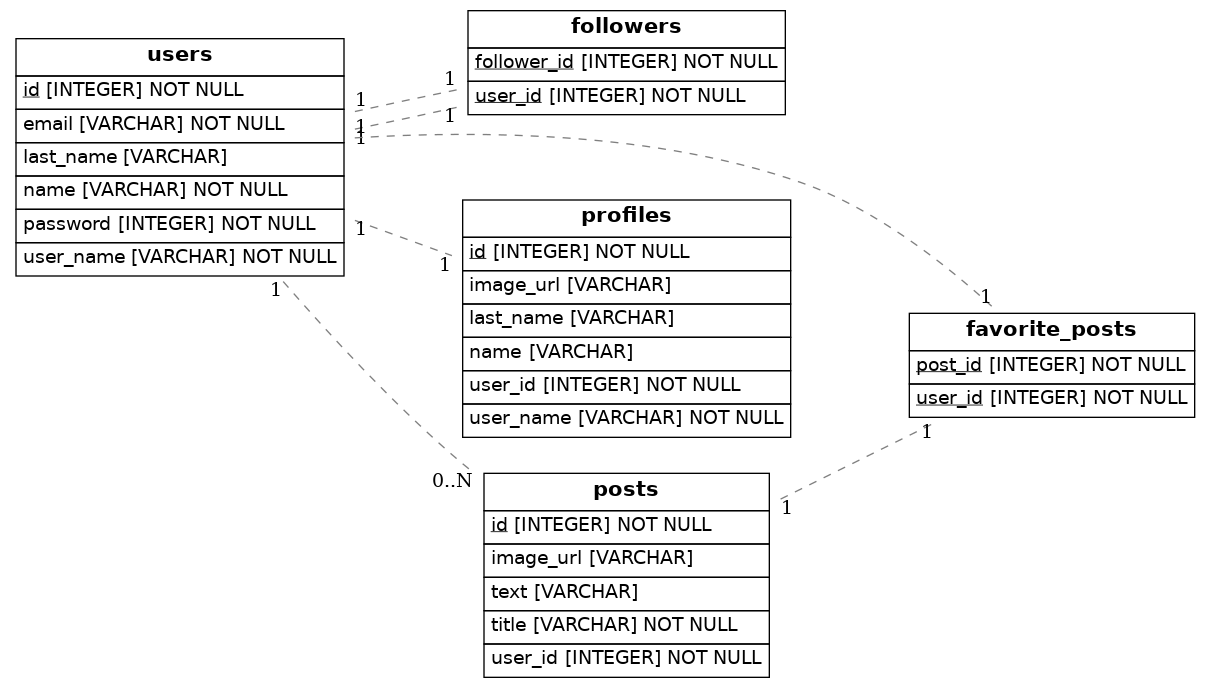
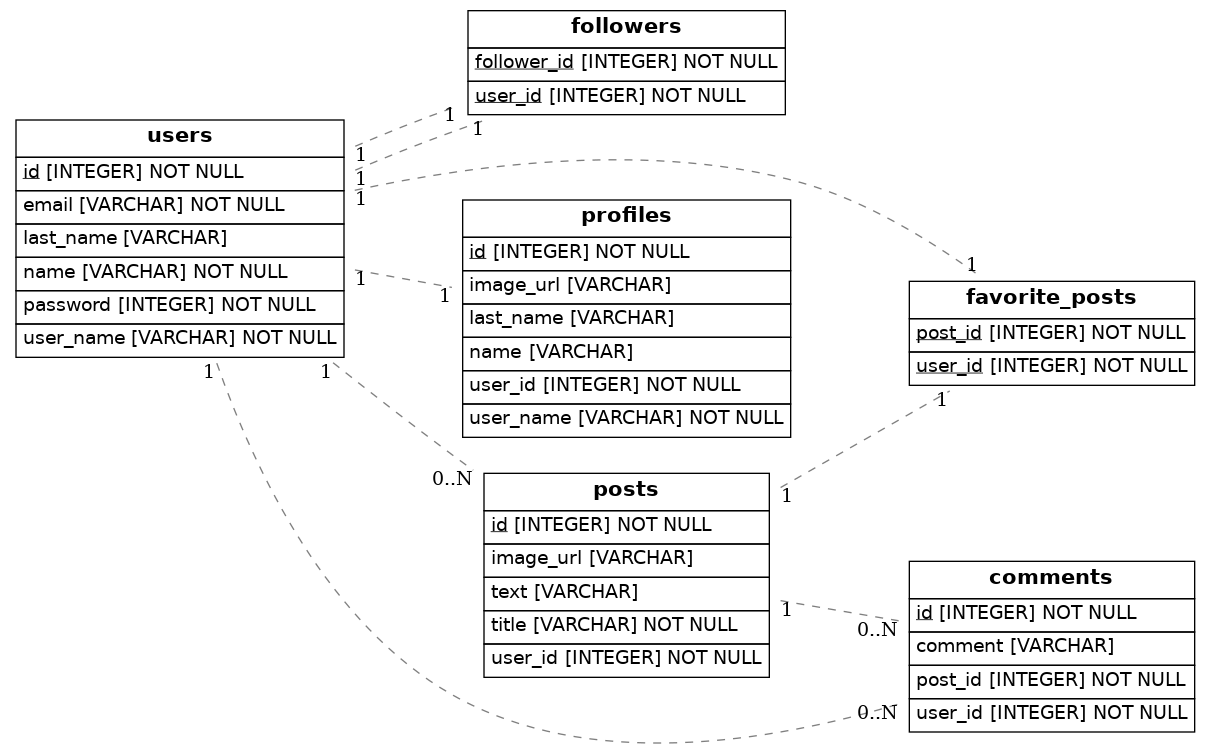
added comments

diff --git a/src/models.py b/src/models.py
@@ -46,6 +46,7 @@ class Users(Base):
     profile: Mapped["Profiles"] = relationship(back_populates="user")
     posts: Mapped[List["Posts"]] = relationship(secondary=association_fav_posts, back_populates="user")
     followers: Mapped[List["Users"]] = relationship(secondary=association_followers)
+    comments: Mapped[List["Comments"]] = relationship(back_populates="user")
 
 class Profiles(Base):
     __tablename__ = 'profiles'
@@ -69,6 +70,17 @@ class Posts(Base):
     image_url: Mapped[Optional[str]] = mapped_column()
     user_id: Mapped[int] = mapped_column(ForeignKey("users.id"))
     user: Mapped["Users"] = relationship(secondary=association_fav_posts, back_populates="posts")
+    comments: Mapped[List["Comments"]] = relationship(back_populates="post")
+
+class Comments(Base):
+    __tablename__ = "comments"
+    id: Mapped[int] = mapped_column(primary_key=True, unique=True)
+    comment: Mapped[Optional[str]]
+    user_id: Mapped[int] = mapped_column(ForeignKey("users.id"))
+    post_id: Mapped[int] = mapped_column(ForeignKey("posts.id"))
+    
+    user: Mapped["Users"] = relationship(back_populates="comments")
+    post: Mapped["Posts"] = relationship(back_populates="comments")
 
 
 try:
